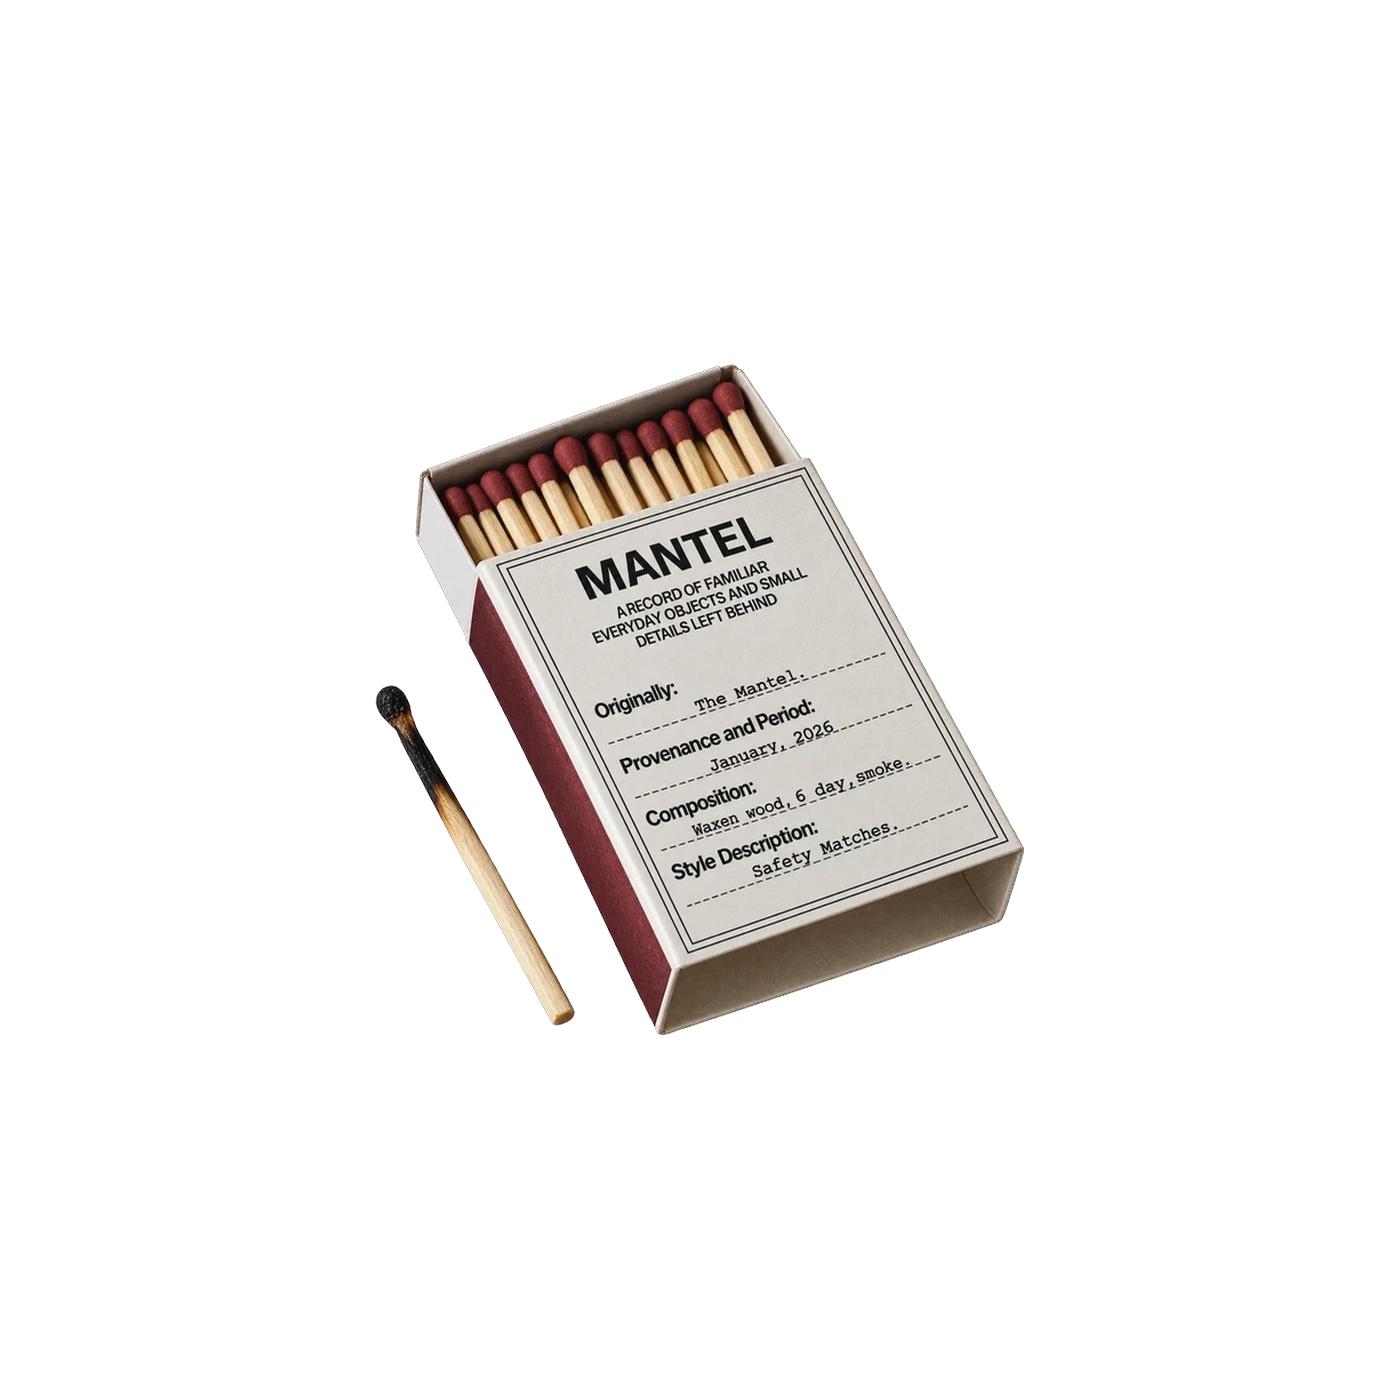
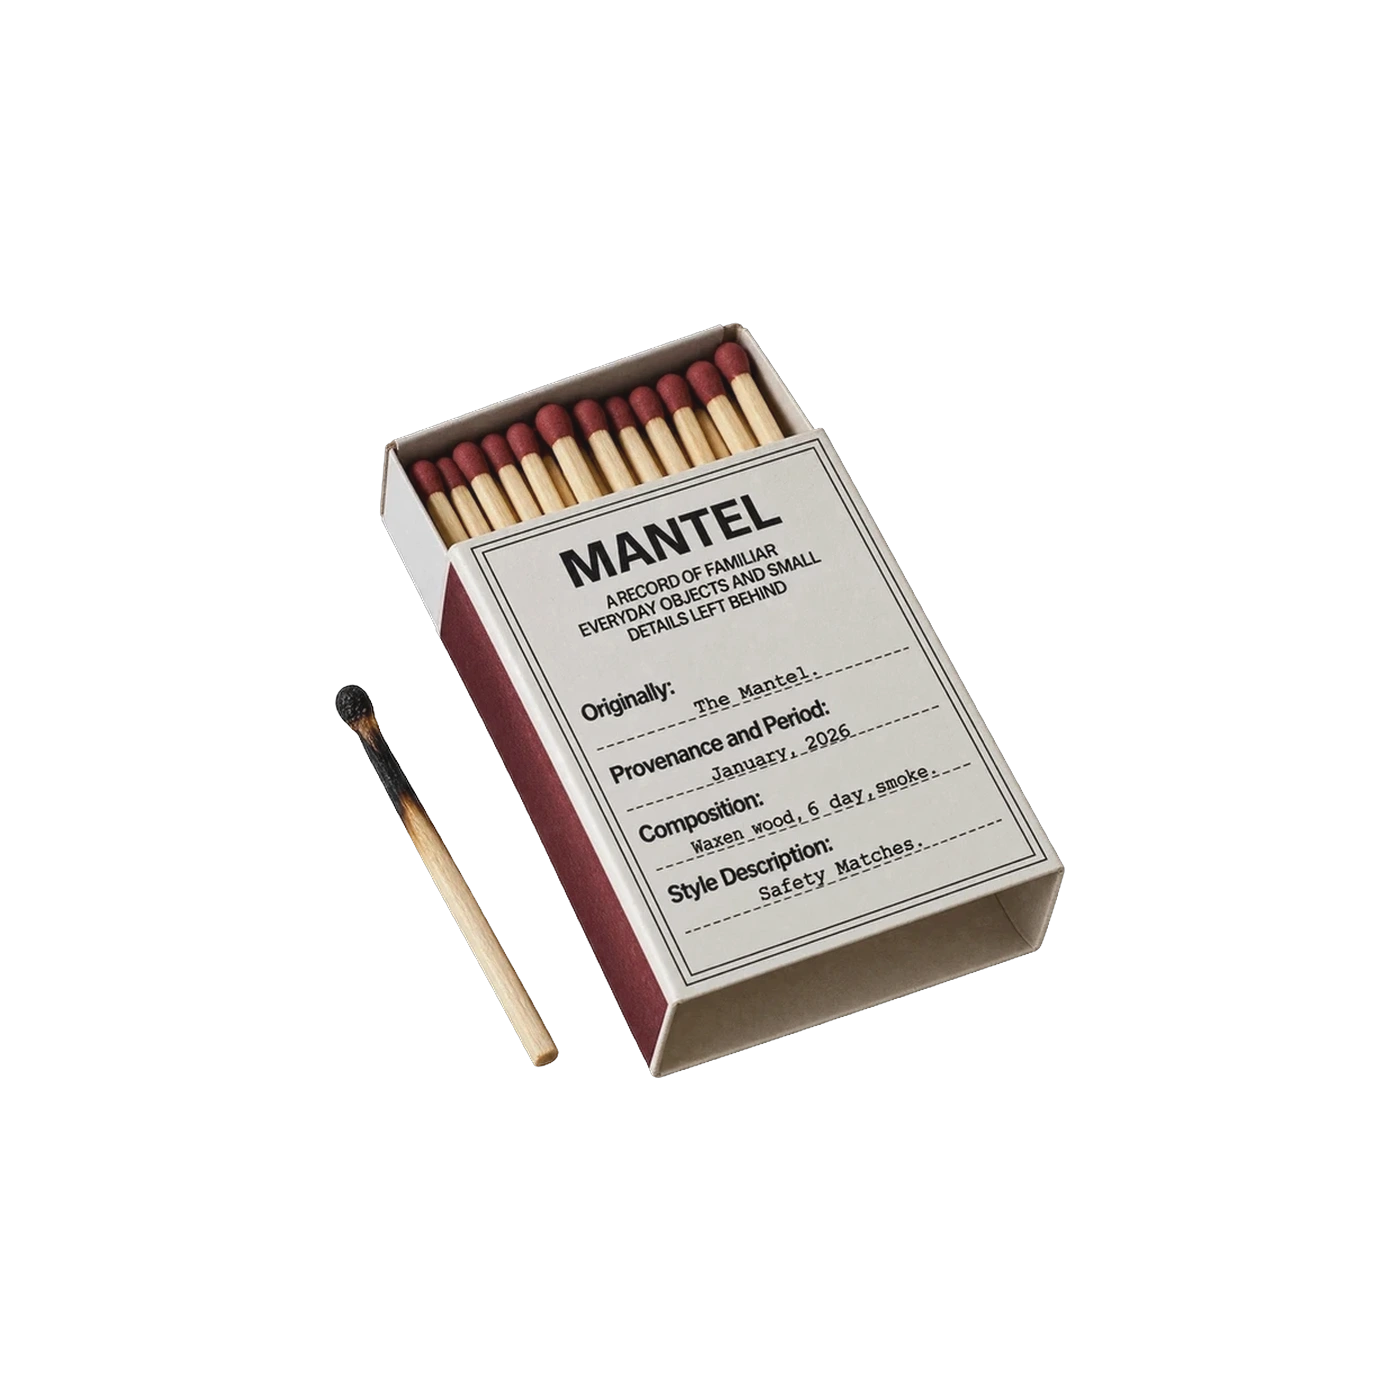
Bump match sticks fill 48% to 54%
Still read small next to the tote and lighters on the shelf. Re-centred
both faces at the higher fill on the same 1400x1400 canvas.

Claude-Session: https://claude.ai/code/session_01YNooiFC1k2Jrv3Fm1HcV4i

Changed region(s): [[0.215, 0.215, 0.7679, 0.7679]]

diff --git a/src/app/content/retail.ts b/src/app/content/retail.ts
@@ -108,7 +108,7 @@ export type CartLine = {
  *
  *                   tote            65%   (~38cm, the largest object here)
  *                   candle sticks   58%   (~25cm, tall but slender)
- *                   match sticks    48%   (~8cm box)
+ *                   match sticks    54%   (~8cm box)
  *                   candles (tin)   45%   (~7.5cm, a squat tin)
  *                   lighters        40%   (~8cm, the smallest)
  *
@@ -119,10 +119,10 @@ export type CartLine = {
  *                 time (58→65, 50→58) after the product page — a full-height
  *                 mobile frame, not a shelf tile — made them read too small
  *                 on their own page even though the relative order was
- *                 right; match sticks got the same bump a third time
- *                 (42→48) once new box photos replaced the old ones — a new
- *                 product's fill should slot into this table by its own real
- *                 size, not default to a number here.
+ *                 right; match sticks got the same bump twice more
+ *                 (42→48→54) once new box photos replaced the old ones — a
+ *                 new product's fill should slot into this table by its own
+ *                 real size, not default to a number here.
  *
  * A replacement has to meet both, or it will stand out from the rest.
  *
